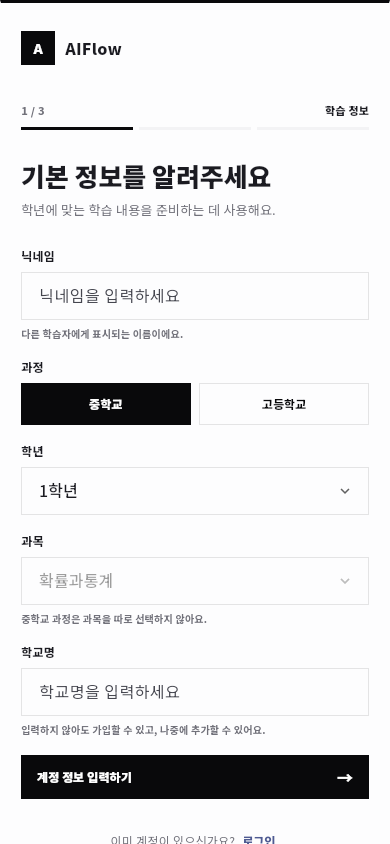
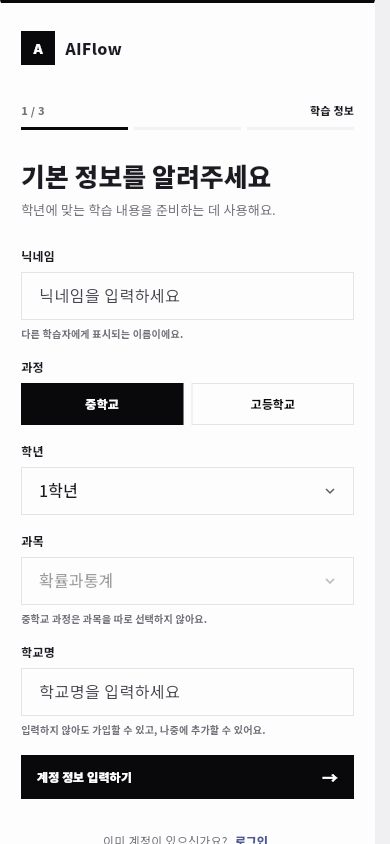
docs(audit): record signup mobile parity deploy

diff --git a/design/student/audits/2026-09-01-deployed-vs-upstudy-student-app-design.md b/design/student/audits/2026-09-01-deployed-vs-upstudy-student-app-design.md
@@ -458,3 +458,11 @@
 - Vercel: [`dpl_2UmMMaacKw8YveHjUqrY5594qqKH`](https://vercel.com/cw20208021-9200s-projects/aiflow-web-canary/2UmMMaacKw8YveHjUqrY5594qqKH), 고유 URL [`aiflow-web-canary-ocsi61rij-cw20208021-9200s-projects.vercel.app`](https://aiflow-web-canary-ocsi61rij-cw20208021-9200s-projects.vercel.app), production alias [`aiflow-web-canary.vercel.app`](https://aiflow-web-canary.vercel.app/#/signup) READY 연결.
 - 라이브 경계: alias `/health` 200, 라이브 `main.dart.js` SHA-256이 로컬 번들과 일치했다. 올바른 데모 경로 `/demo/student-store`·`/student/school-exam-plan/active`는 인증 없이 각각 401이며, `/api/app/...` 프록시 경로는 503으로 제품 서버 미연결 상태를 별도 기록한다. 배포된 정적 가입 화면의 브라우저 캡처를 후속으로 갱신한다.
 - 이 배포는 가입 화면 한 묶음의 반응형 보정이다. 86개 전체 화면·장면·동작의 동일 조건 이미지, 인증된 실제 데이터, API 쓰기·DB migration·200 동시성·접근성·전체 반응형 검증은 여전히 `pending`이며 상용 준비 완료로 판정하지 않는다.
+
+### 2026-09-10 가입 모바일 스크롤바 여백 후속 배포
+
+- 코드·테스트·증거 커밋 `138df09`를 `origin/hotfix`에 반영했다. HTML이 390px 캡처에서 예약하는 15px 세로 스크롤바 여백을 모바일 패널에도 적용해 입력·버튼 우측 끝을 기준 이미지와 맞췄다.
+- 검증: 가입 단계·로그인/가입 골든 테스트 11개 통과, 릴리스 빌드 성공. 기준 HTML과 배포 화면을 동일 Playwright Chromium 조건(`390×844`, `1280×900`, DPR 1, 5초 대기)으로 캡처했다. 증거는 `evidence/2026-09-01-deployed-vs-design/design-signup-390x844.png`, `design-signup-1280x900.png`, `deployed-signup-390x844.png`, `deployed-signup-1280x900.png`이다.
[1 lines of base64/hex data omitted]
+- Vercel: [`dpl_3cAAjAHSe1Zyz3PhL6euaZGmqANs`](https://vercel.com/cw20208021-9200s-projects/aiflow-web-canary/3cAAjAHSe1Zyz3PhL6euaZGmqANs), 고유 URL [`aiflow-web-canary-2kytqt3jd-cw20208021-9200s-projects.vercel.app`](https://aiflow-web-canary-2kytqt3jd-cw20208021-9200s-projects.vercel.app), production alias [`aiflow-web-canary.vercel.app`](https://aiflow-web-canary.vercel.app/#/signup) READY 연결. `/health` 200, 올바른 인증 없는 데모 경로 401.
+- 이 배포도 가입 화면의 단일 묶음만 갱신한다. 86개 전체 화면·장면·동작 및 인증 사용자 데이터·쓰기 API·실제 DB migration·200 동시성·접근성·나머지 반응형은 `pending`이고 상용 준비 완료로 판정하지 않는다.
